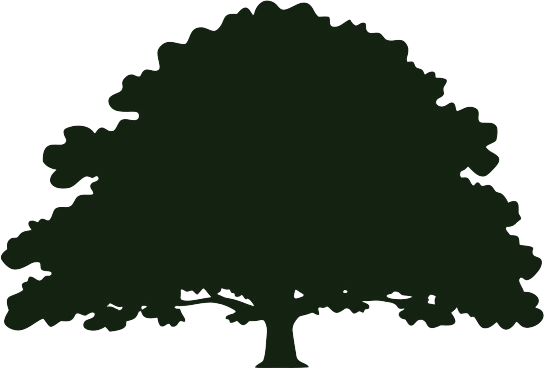
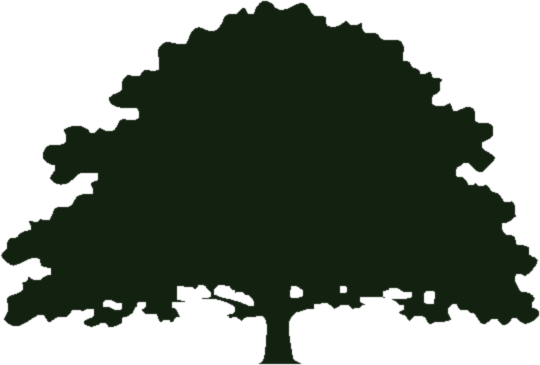
fix: oak tile-wrap seamlessness, edge halo, and oversized scale
Oak was only injected at tile i===0 in the 4-copy [A,B,A,B] scroll
pattern, breaking the seamless-wrap invariant — it vanished for ~100s
then popped back mid-frame at the wrap point, forever. Fixed to
i===0||i===2. Also re-processed the cached asset to remove a
background-removal halo/fringe, and reduced the oak's scale from 36%
to 19% of stage width so it sits in the treeline rather than towering
into open sky and grazing the safe-area box. All three verified via a
full 190s capture crossing the wrap point, confirmed by independent
Fable review.

diff --git a/concepts/firefly-summer-meadow.html b/concepts/firefly-summer-meadow.html
@@ -84,7 +84,7 @@ This commit is <b>harness-only</b>: the stage container, reduced-motion toggle, 
   The center box (20% left, 28% top, 60% wide, 44% tall) is reserved for potential UI or focal point layering. Firefly swarms should avoid clustering heavily within it; the jar will sit just below and to the left as a secondary focus point.
 
   <h2>Honest gaps</h2>
-  Built: sky gradient (8-stop indigo-to-olive ramp, fixed backdrop, Task 1) and star field (22 independent stars, fade + position-reroll cycles, Task 1); 3-layer treeline (treeBack/treeMid/treeFront, 240/150/90s durations, R/L/R scroll directions, filter-based depth blur/desaturation, Task 2) and oak landmark silhouette (hand-placed in front layer first tile, Task 2). Not yet: lake, fireflies, porch backdrop, jar sprite, and swing bench (Tasks 3–7).
+  Built: sky gradient (8-stop indigo-to-olive ramp, fixed backdrop, Task 1) and star field (22 independent stars, fade + position-reroll cycles, Task 1); 3-layer treeline (treeBack/treeMid/treeFront, 240/150/90s durations, R/L/R scroll directions, filter-based depth blur/desaturation, Task 2) and oak landmark silhouette (Recraft image asset, front layer's two "A"-slot tiles, Task 2). Not yet: lake, fireflies, porch backdrop, jar sprite, and swing bench (Tasks 3–7).
 </div>
 
 <div class="gate">
@@ -169,12 +169,19 @@ This commit is <b>harness-only</b>: the stage container, reduced-motion toggle, 
   // coords — waterfall-pipe trunk, umbrella-cusp underside, cantilevered-claw lobe defects each
   // round; Fable's final verdict was to stop hand-iterating and generate it as a real illustration
   // instead). Background-removed, alpha-content bounds measured programmatically (canvas alpha
-  // scan, not eyeballed) and cropped tight to those bounds: 544x368 native, so the aspect ratio
-  // below is exact, not guessed. Embedded as a self-contained base64 data URI (no live Recraft
-  // hosted-image reference) per this project's asset-caching convention; source files cached at
-  // concepts/.recraft-cache/oak-silhouette.webp + .b64. Placed in the front layer's FIRST tile
-  // only, same x48-84 / baseline-y95 footprint the old hand-coded path occupied.
[1 lines of base64/hex data omitted]
+  // scan, not eyeballed) and cropped tight to those bounds. Re-processed post-critique (alpha
+  // thresholded + largest-component-only despeckle + 2px erosion + flat-color-recompose) to kill
+  // the background-removal fringe: a light-green color-spill halo traced the silhouette edge,
+  // plus sub-threshold matting dust near the base — both gone now, re-cropped tight to the new
+  // bounds: 540x365 native, so the aspect ratio below is exact, not guessed. Embedded as a
+  // self-contained base64 data URI (no live Recraft hosted-image reference) per this project's
+  // asset-caching convention; source files cached at concepts/.recraft-cache/oak-silhouette.webp
+  // + .b64. Placed in the front layer's tiles 0 AND 2 (the two "A" variant slots — see the
+  // buildTreeline tiling comment below for why both copies of the identical A/B pair need it),
+  // scaled down to ~22% of the stage (was ~36%, floated deep into open sky and into the
+  // safe-area box) and dropped to the tile's own y100 baseline so it roots into the front
+  // treeline's crown line instead of hovering above it.
[1 lines of base64/hex data omitted]
 
   const TREE_TIERS = [
     { key:'treeBack',  shape:'back',  fill:'#1a3808', blur:2, sat:0.55, op:0.88, dur:240, dir:'R' },
@@ -212,19 +219,31 @@ This commit is <b>harness-only</b>: the stage container, reduced-motion toggle, 
       path.setAttribute('opacity', tier.op);
       svg.appendChild(path);
       wrap.appendChild(svg);
-      // oak landmark: front layer's first tile only, real Recraft image asset (see OAK_IMG_SRC
-      // above), not a per-tile SVG path — plain absolutely-positioned <img> sibling of the svg
-      // inside this tile's wrap div, so it scrolls with the tile but doesn't interfere with the
-      // polygon-tile siblings around it. left/width match the old path's x48-84 footprint; bottom
-      // matches the old y95 baseline (both are 1:1 % of the wrap since the svg's own viewBox is
-      // 0-100 stretched to 100%/100%). height is deliberately NOT set — img default height:auto
-      // derives it from the image's real measured aspect ratio (544:368) at whatever px width the
-      // 36% resolves to, so the canopy is never stretched/squashed the way a guessed % box would.
-      if (tier.key === 'treeFront' && i === 0){
+      // oak landmark: real Recraft image asset (see OAK_IMG_SRC above), not a per-tile SVG path —
+      // plain absolutely-positioned <img> sibling of the svg inside this tile's wrap div, so it
+      // scrolls with the tile but doesn't interfere with the polygon-tile siblings around it.
+      // bottom:0 sinks it to the tile's own baseline (same y100 the SVG path's L100,100 uses),
+      // rooting it into the front treeline's crown line rather than floating above it. height is
+      // deliberately NOT set — img default height:auto derives it from the image's real measured
+      // aspect ratio (540:365) at whatever px width the 19% resolves to, so the canopy is never
+      // stretched/squashed the way a guessed % box would. Note the 19% here is 19% of the WRAP's
+      // width, and the wrap is stretched to 116% of the stage (the holder's overflow-hidden seam
+      // trick below) — so it renders at ~19%*1.16 ≈ 22% of the actual stage width, inside the
+      // 22-25% target and clear of the .safe-area box's y28-72% band.
+      //
+      // Rendered on tiles 0 AND 2, not just tile 0: this track is 4 copies of an [A,B,A,B] shape
+      // loop (see buildTreeline's own header comment on why 2 copies aren't enough once a layer
+      // has 2 distinct variants). The -50% wrap only reads seamlessly if tile-pair (0,1) is
+      // visually identical to tile-pair (2,3) — a landmark image glued onto only i===0 breaks
+      // that invariant (pair 0,1 != pair 2,3), so the oak would vanish for most of a scroll cycle
+      // and pop back abruptly at the wrap point. i===2 is the other "A"-variant slot (i%2===0),
+      // the same shape as i===0 — i===1/i===3 are the "B" slot, a different silhouette, so putting
+      // it there would misalign it against that tile's shape.
+      if (tier.key === 'treeFront' && (i === 0 || i === 2)){
         const oak = document.createElement('img');
         oak.src = OAK_IMG_SRC;
         oak.alt = '';
-        oak.style.cssText = 'position:absolute;left:48%;bottom:5%;width:36%;height:auto;pointer-events:none';
+        oak.style.cssText = 'position:absolute;left:48%;bottom:0%;width:19%;height:auto;pointer-events:none';
         wrap.appendChild(oak);
       }
       track.appendChild(wrap);
